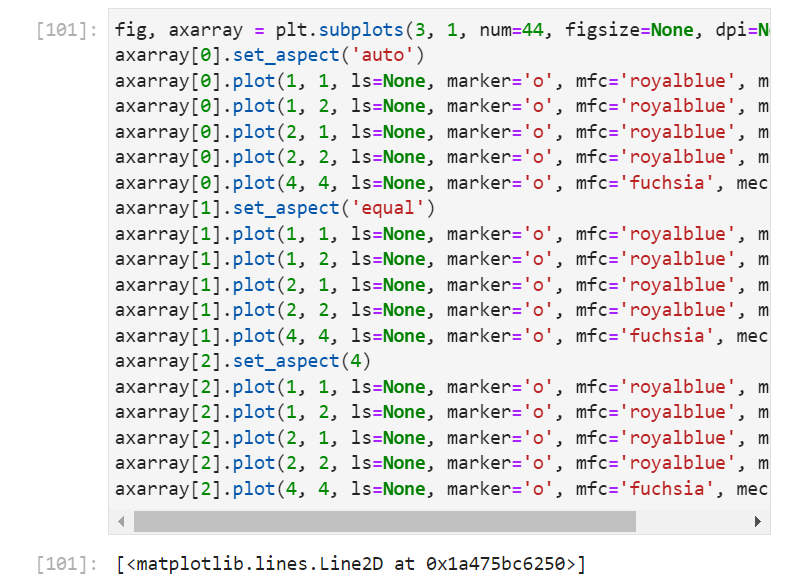
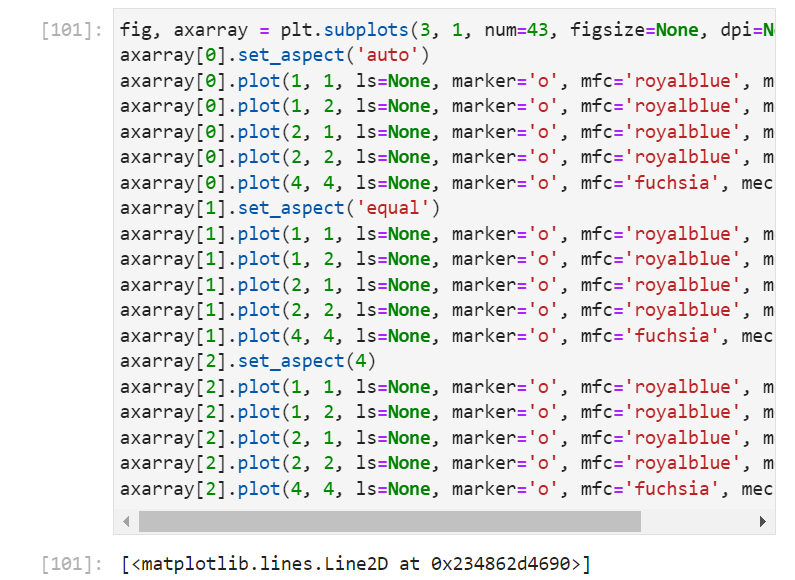
Update

diff --git a/021_matrix_plotting_library/readme.md b/021_matrix_plotting_library/readme.md
@@ -1983,7 +1983,7 @@ The docstring for the ```Axes``` method ```set_aspect``` can be examined by typi
 For an ```Axes``` instance, there is the default ```'auto'``` which independently scales each axis. This can be changed to ```'equal'``` which will maintain an equal aspect ratio. Finally a floating point value can be used to select the length of the $y$ axis to the length of the $x$. 
 
 ```
-fig, axarray = plt.subplots(3, 1, num=44, figsize=None, dpi=None)
+fig, axarray = plt.subplots(3, 1, num=43, figsize=None, dpi=None)
 axarray[0].set_aspect('auto')
 axarray[0].plot(1, 1, ls=None, marker='o', mfc='royalblue', mec='tomato')
 axarray[0].plot(1, 2, ls=None, marker='o', mfc='royalblue', mec='tomato')
